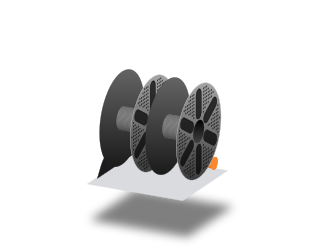
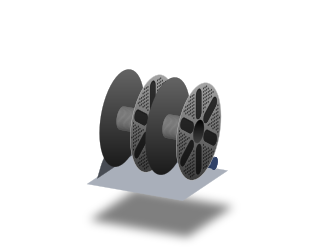
feat(unit-art): the Night Owl takes midnight blue and grey (prestonbrown/helixscreen#2068)

Changed region(s): [[0.2812, 0.6235, 0.7188, 0.8219]]

diff --git a/scripts/unit_art/units/night_owl.py b/scripts/unit_art/units/night_owl.py
@@ -13,7 +13,7 @@ LOCAL_R = 0.46
 SCALE = SPOOL_R / LOCAL_R
 W, D = 1.0, 0.92
 FOOT_Z, TOP = 0.045, 0.36
-FRAME, PANEL, DECK, PLATE, RUBBER = "#e9761c", "#26272a", "#d9dbdf", "#232427", "#2e2f33"
+FRAME, PANEL, DECK, PLATE, RUBBER = "#1d2f55", "#14171f", "#a9afba", "#5a5f69", "#2e2f33"
 CENTERS = [0.26, 0.74]
 SPOOL_Y = 0.52
 ROLLER_Y, ROLLER_R = 0.2, 0.085
